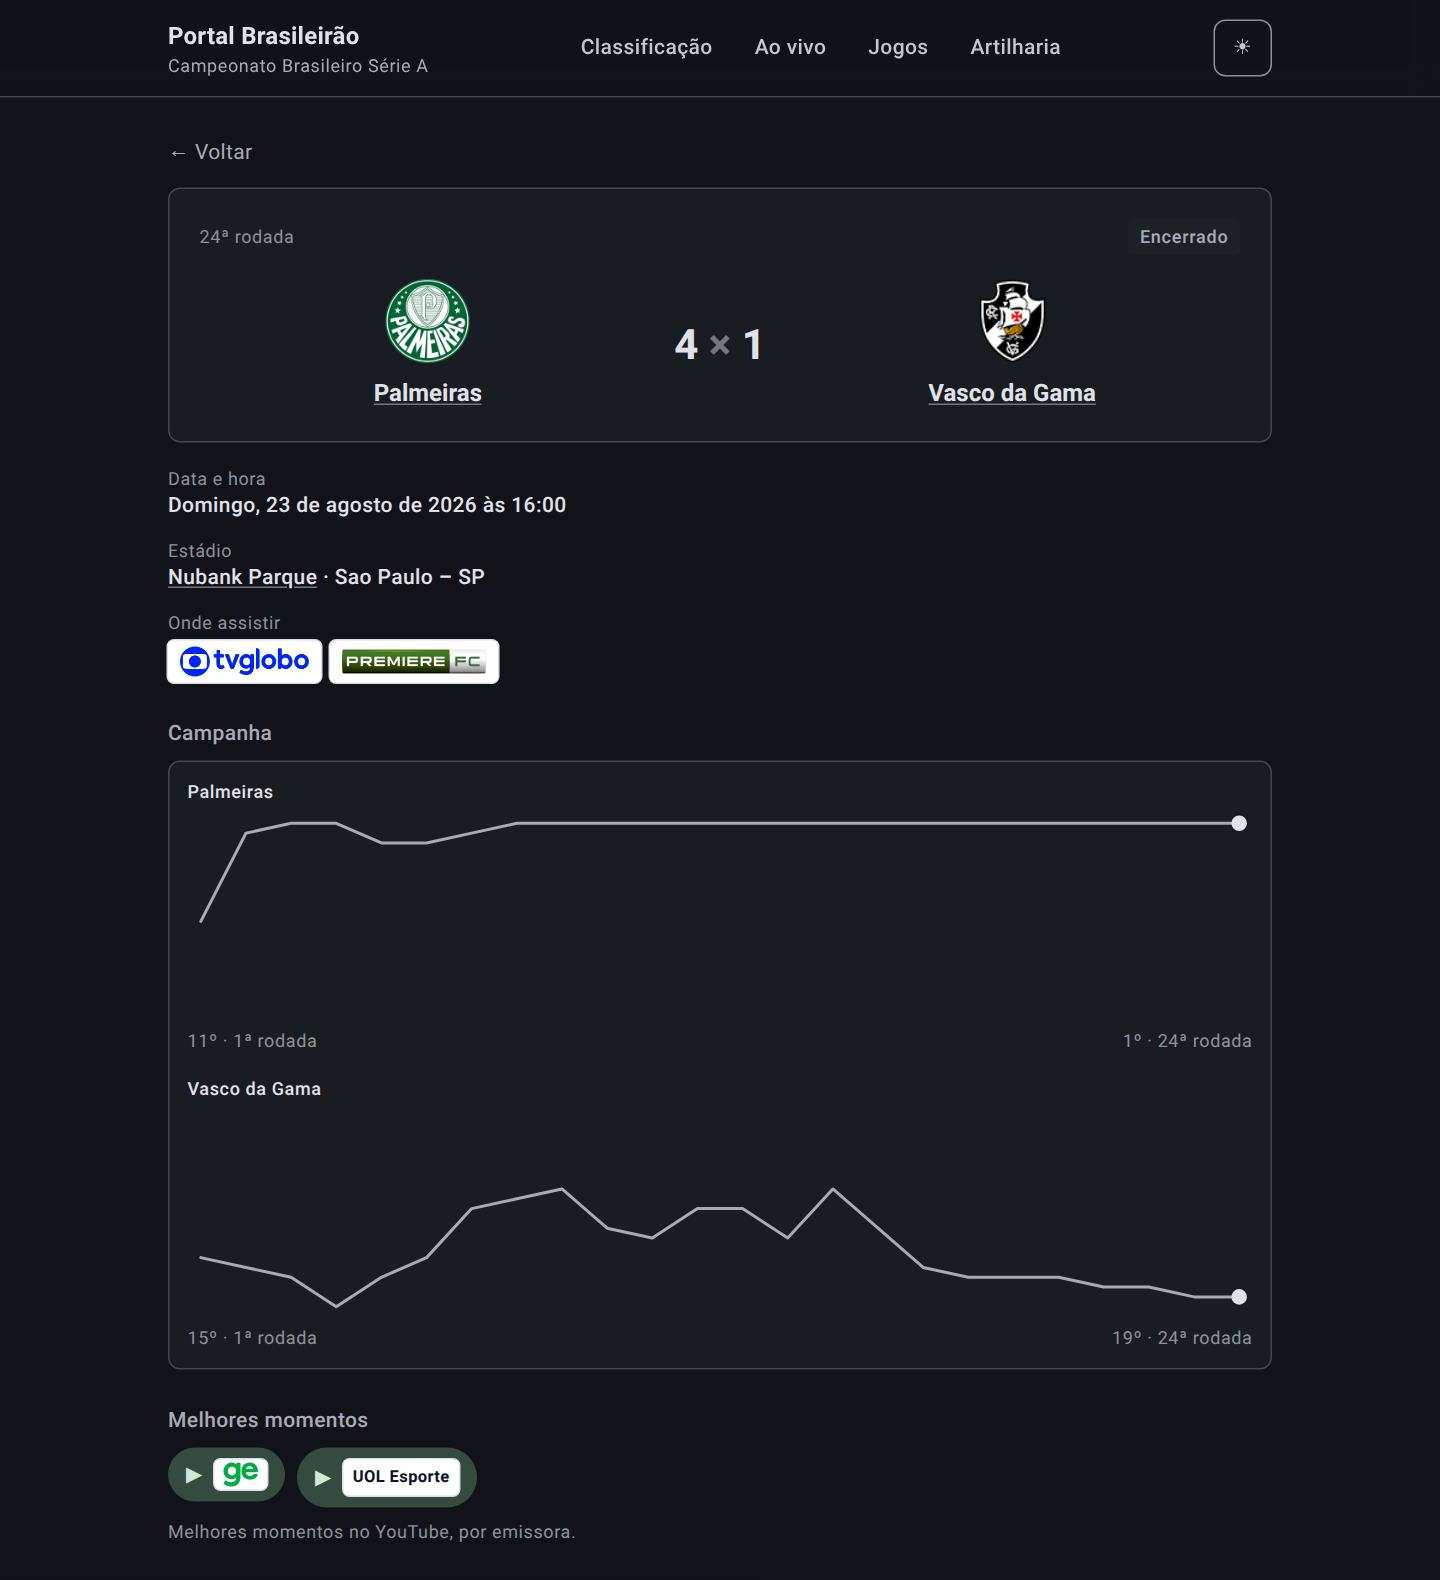
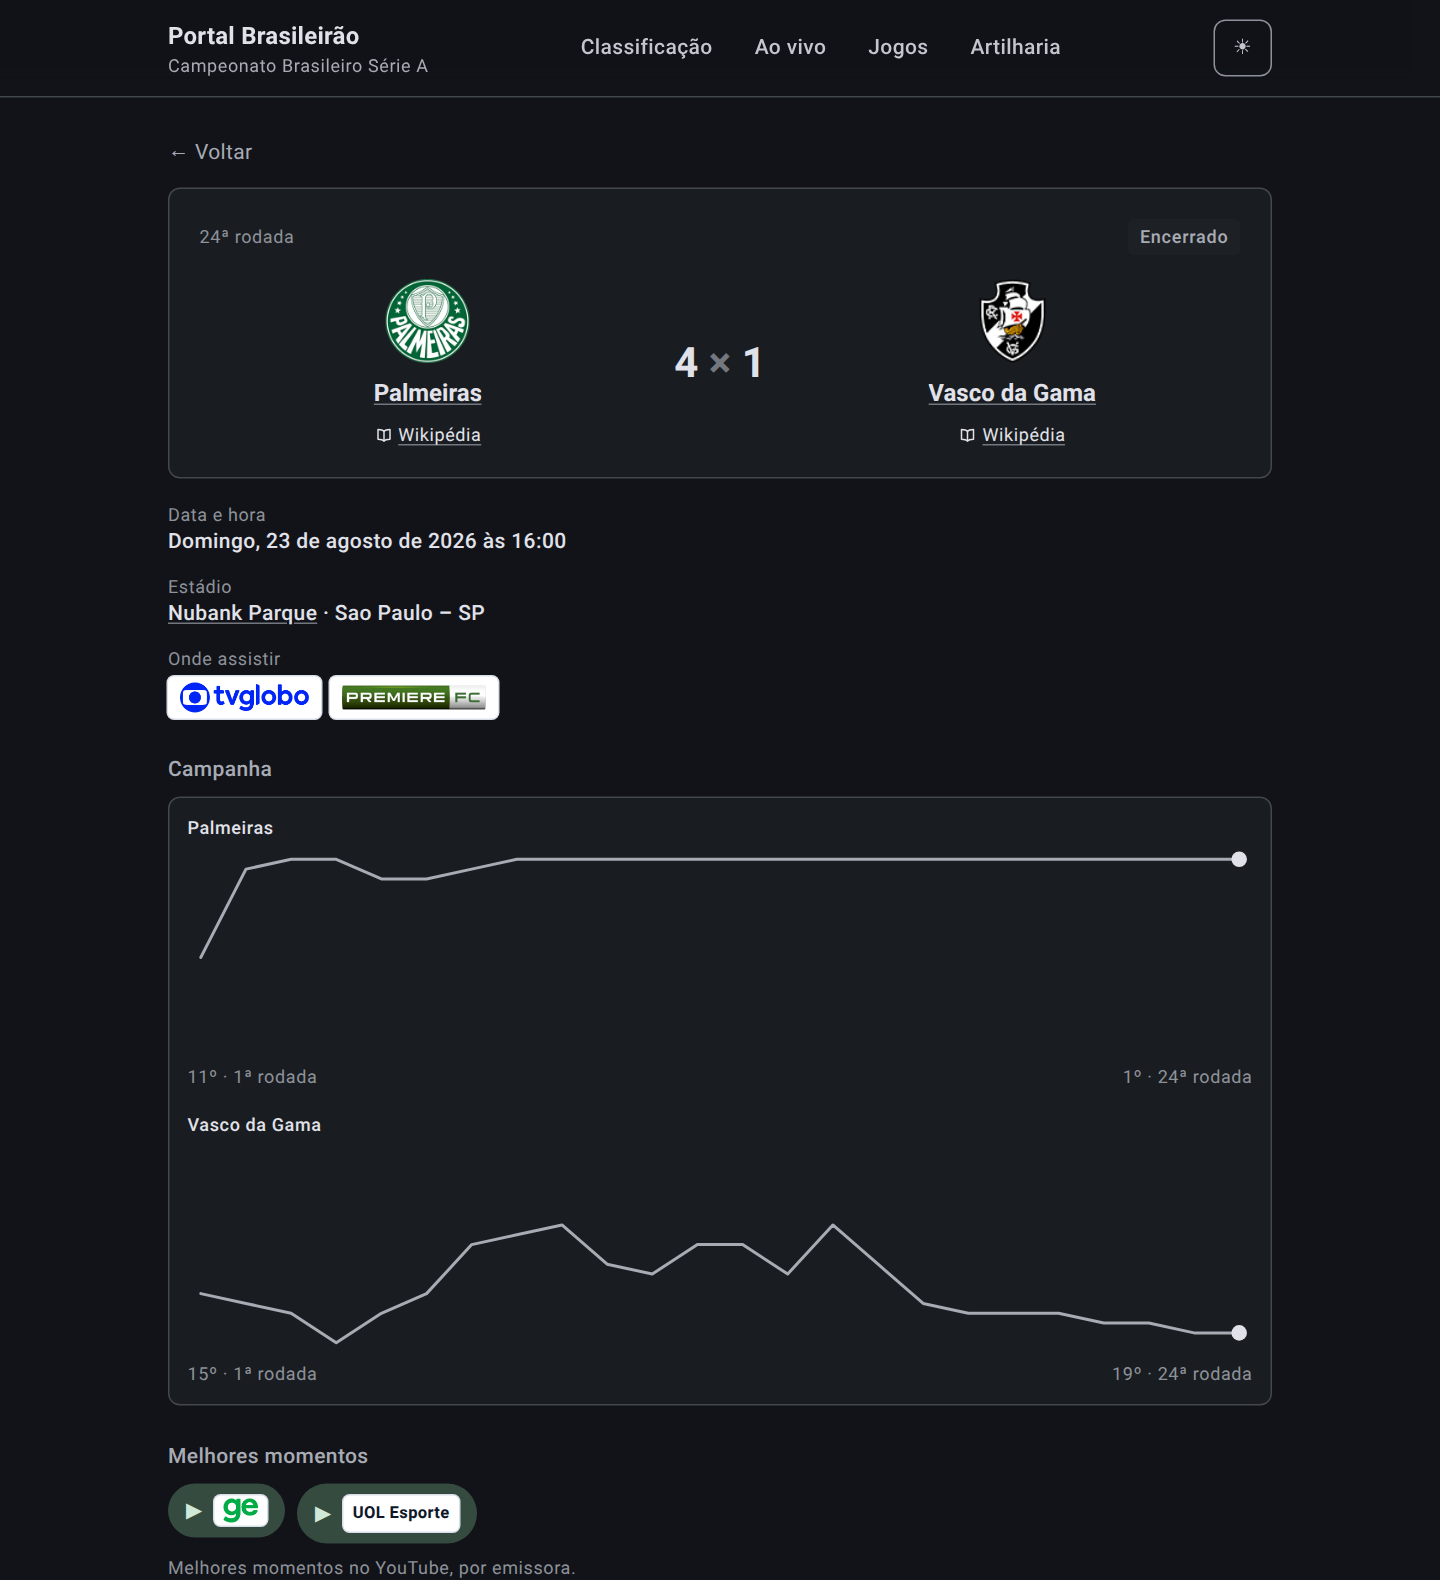
Re-capture the match page after the club article links landed
PR #23 merged between the capture and the pull request, and it touches
`MatchPage` — so the previous images were superseded before they could be
reviewed. Re-shot against production at 18c3b0e, which now carries both
changes.

Only `partida-554977-*` moved this time. **`clube-palmeiras-*` came back
byte-identical**, which answers by measurement what was until now an
inference: #23 refactored `ClubView`'s links into a shared `ClubLinks`
component (+15/-62) and the rendered header really is unchanged. Not
staged, because nothing changed.

The alt text now carries both facts. It named neither at the start of the
day: the scoreboard has gained a Wikipédia link under each club, and the
Estádio line has gained a link on the ground. Describing one and not the
other would have been closer to the truth than the original and still
wrong.

`ao-vivo`'s alt text is unchanged and that is checked rather than assumed
— the live page still reads "Nenhuma partida em andamento agora" and
"Começa em 4 dias", so both quoted strings still hold.

Re-verified on the fresh set: twelve of twelve correct at the page
background, every README reference resolves, and no image on disk is
unreferenced.

diff --git a/README.md b/README.md
@@ -54,9 +54,9 @@ guessing a number.*
 fixture carries the broadcasters showing it — ge, Globo, Premiere, SporTV, Cazé TV, YouTube
 and Prime Video, with anyone we have no mark for rendered as their own name.*
 
-![Página da partida Palmeiras 4 x 1 Vasco da Gama no tema claro: placar com escudos, data, o estádio com o nome "Nubank Parque" ligado à página do próprio estádio e a cidade e o estado em texto simples ao lado, as emissoras que transmitiram, as campanhas dos dois clubes empilhadas — o líder reto no alto e o adversário caindo — e os links dos melhores momentos por emissora.](docs/screenshots/partida-554977-light.png)
+![Página da partida Palmeiras 4 x 1 Vasco da Gama no tema claro: placar com escudos e, sob o nome de cada clube, uma ligação para o seu artigo na Wikipédia; a data; o estádio, com o nome "Nubank Parque" ligado à página do próprio estádio e a cidade e o estado em texto simples ao lado; as emissoras que transmitiram; as campanhas dos dois clubes empilhadas — o líder reto no alto e o adversário caindo — e os links dos melhores momentos por emissora.](docs/screenshots/partida-554977-light.png)
 
-![A mesma página da partida no tema escuro, com o mesmo placar, o mesmo estádio ligado à sua página, emissoras, campanhas dos dois clubes e melhores momentos, e as marcas das emissoras mantendo o fundo claro.](docs/screenshots/partida-554977-dark.png)
+![A mesma página da partida no tema escuro, com o mesmo placar, as mesmas ligações para a Wikipédia sob cada clube, o mesmo estádio ligado à sua página, emissoras, campanhas dos dois clubes e melhores momentos, e as marcas das emissoras mantendo o fundo claro.](docs/screenshots/partida-554977-dark.png)
 
 *A match page, light and dark. Both clubs' campanhas are stacked rather than overlaid, so
 they share one scale and their rounds line up — the app has no series palette, and inventing
